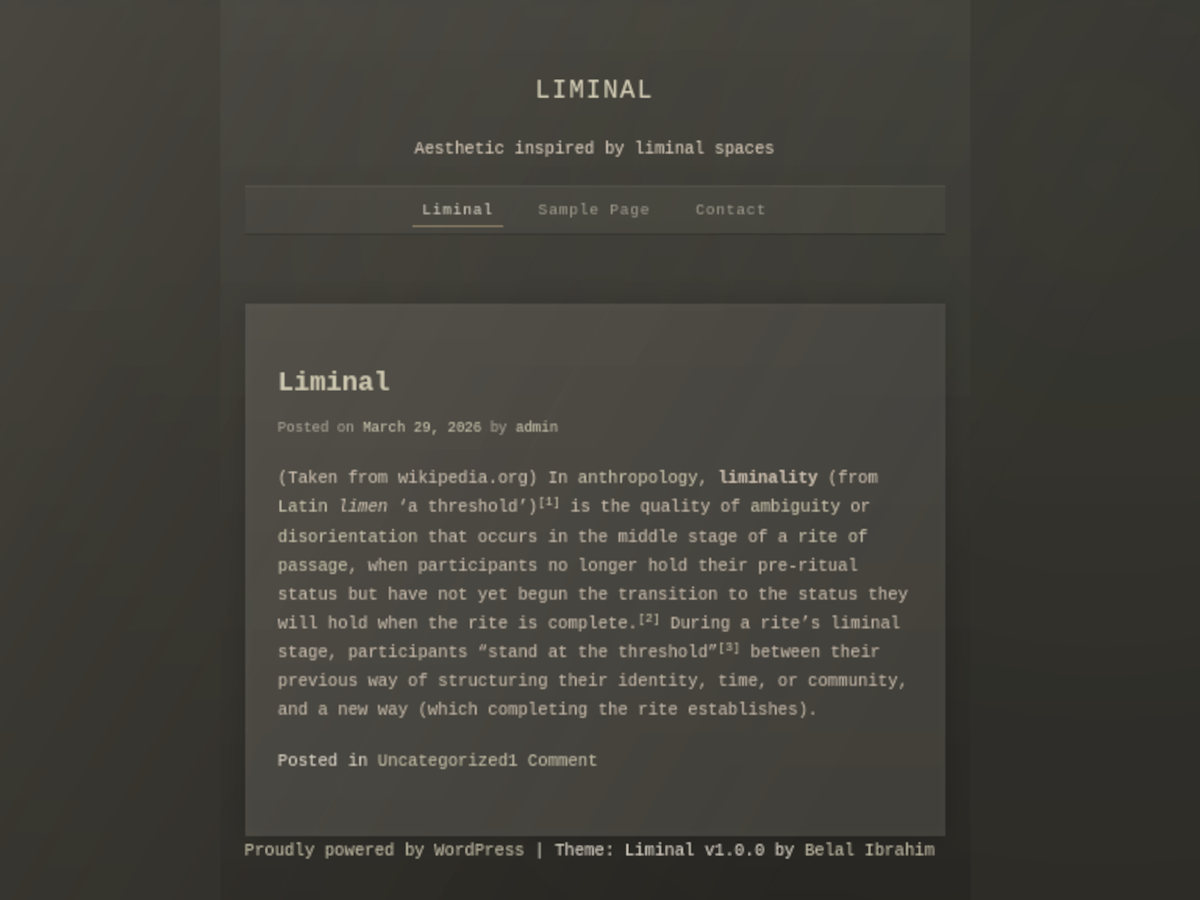
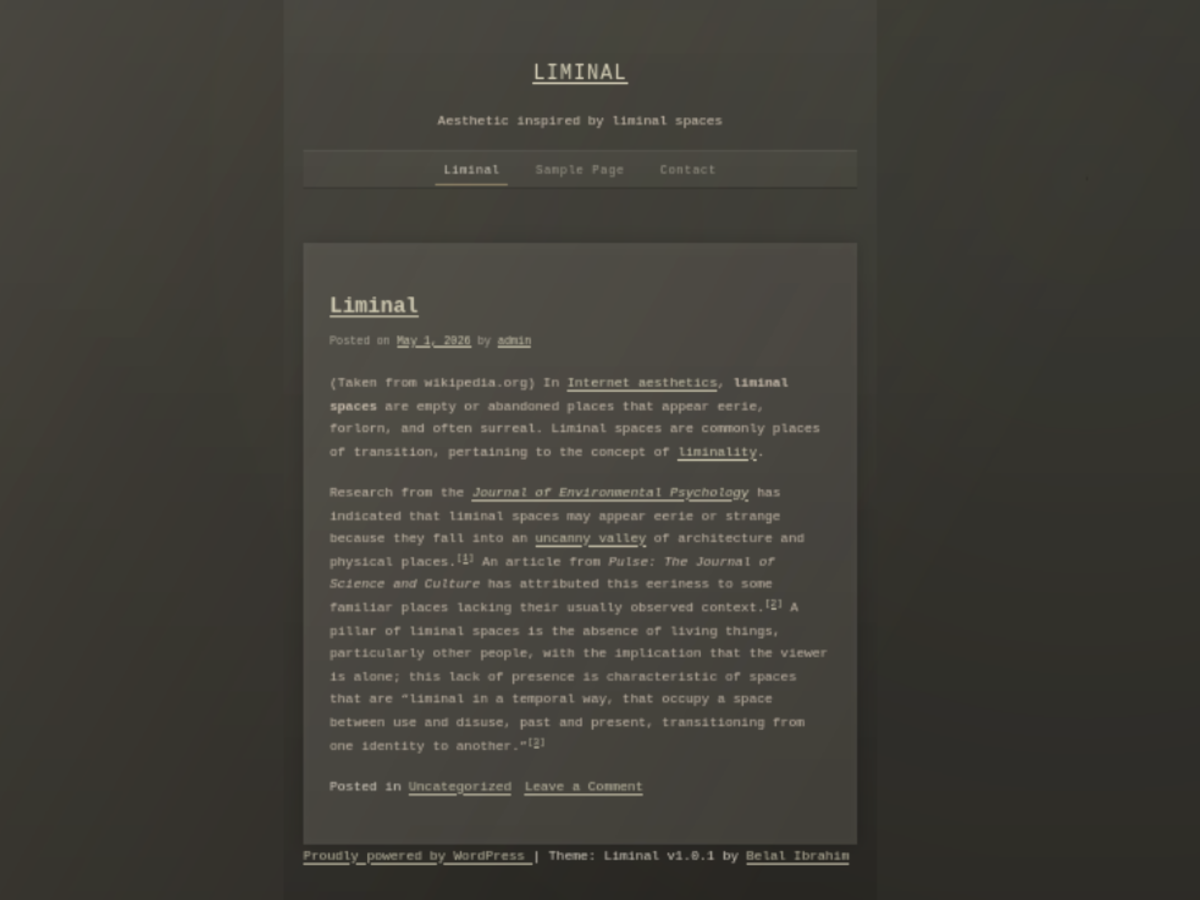
v1.0.1

Changed region(s): [[0.185, 0.3111, 0.7708, 0.9644], [0.3392, 0.0622, 0.6475, 0.28], [0.5858, 0.2178, 0.6475, 0.2489]]

diff --git a/style-rtl.css b/style-rtl.css
@@ -4,7 +4,7 @@ Theme URI: https://github.com/belal-i/liminal
 Author: Belal Ibrahim
 Author URI: https://github.com/belal-i
 Description: A theme based on the liminal aesthetic
-Version: 1.0.0
+Version: 1.0.1
 Tested up to: 6.9
 Requires PHP: 5.6
 License: GNU General Public License v2 or later

diff --git a/style.css b/style.css
@@ -4,7 +4,7 @@ Theme URI: https://github.com/belal-i/liminal
 Author: Belal Ibrahim
 Author URI: https://github.com/belal-i
 Description: A theme based on the liminal aesthetic
-Version: 1.0.0
+Version: 1.0.1
 Tested up to: 6.9
 Requires PHP: 5.6
 License: GNU General Public License v2 or later

diff --git a/functions.php b/functions.php
@@ -9,7 +9,7 @@
 
 if ( ! defined( 'LIMINAL_VERSION' ) ) {
 	// Replace the version number of the theme on each release.
-	define( 'LIMINAL_VERSION', '1.0.0' );
+	define( 'LIMINAL_VERSION', '1.0.1' );
 }
 
 /**